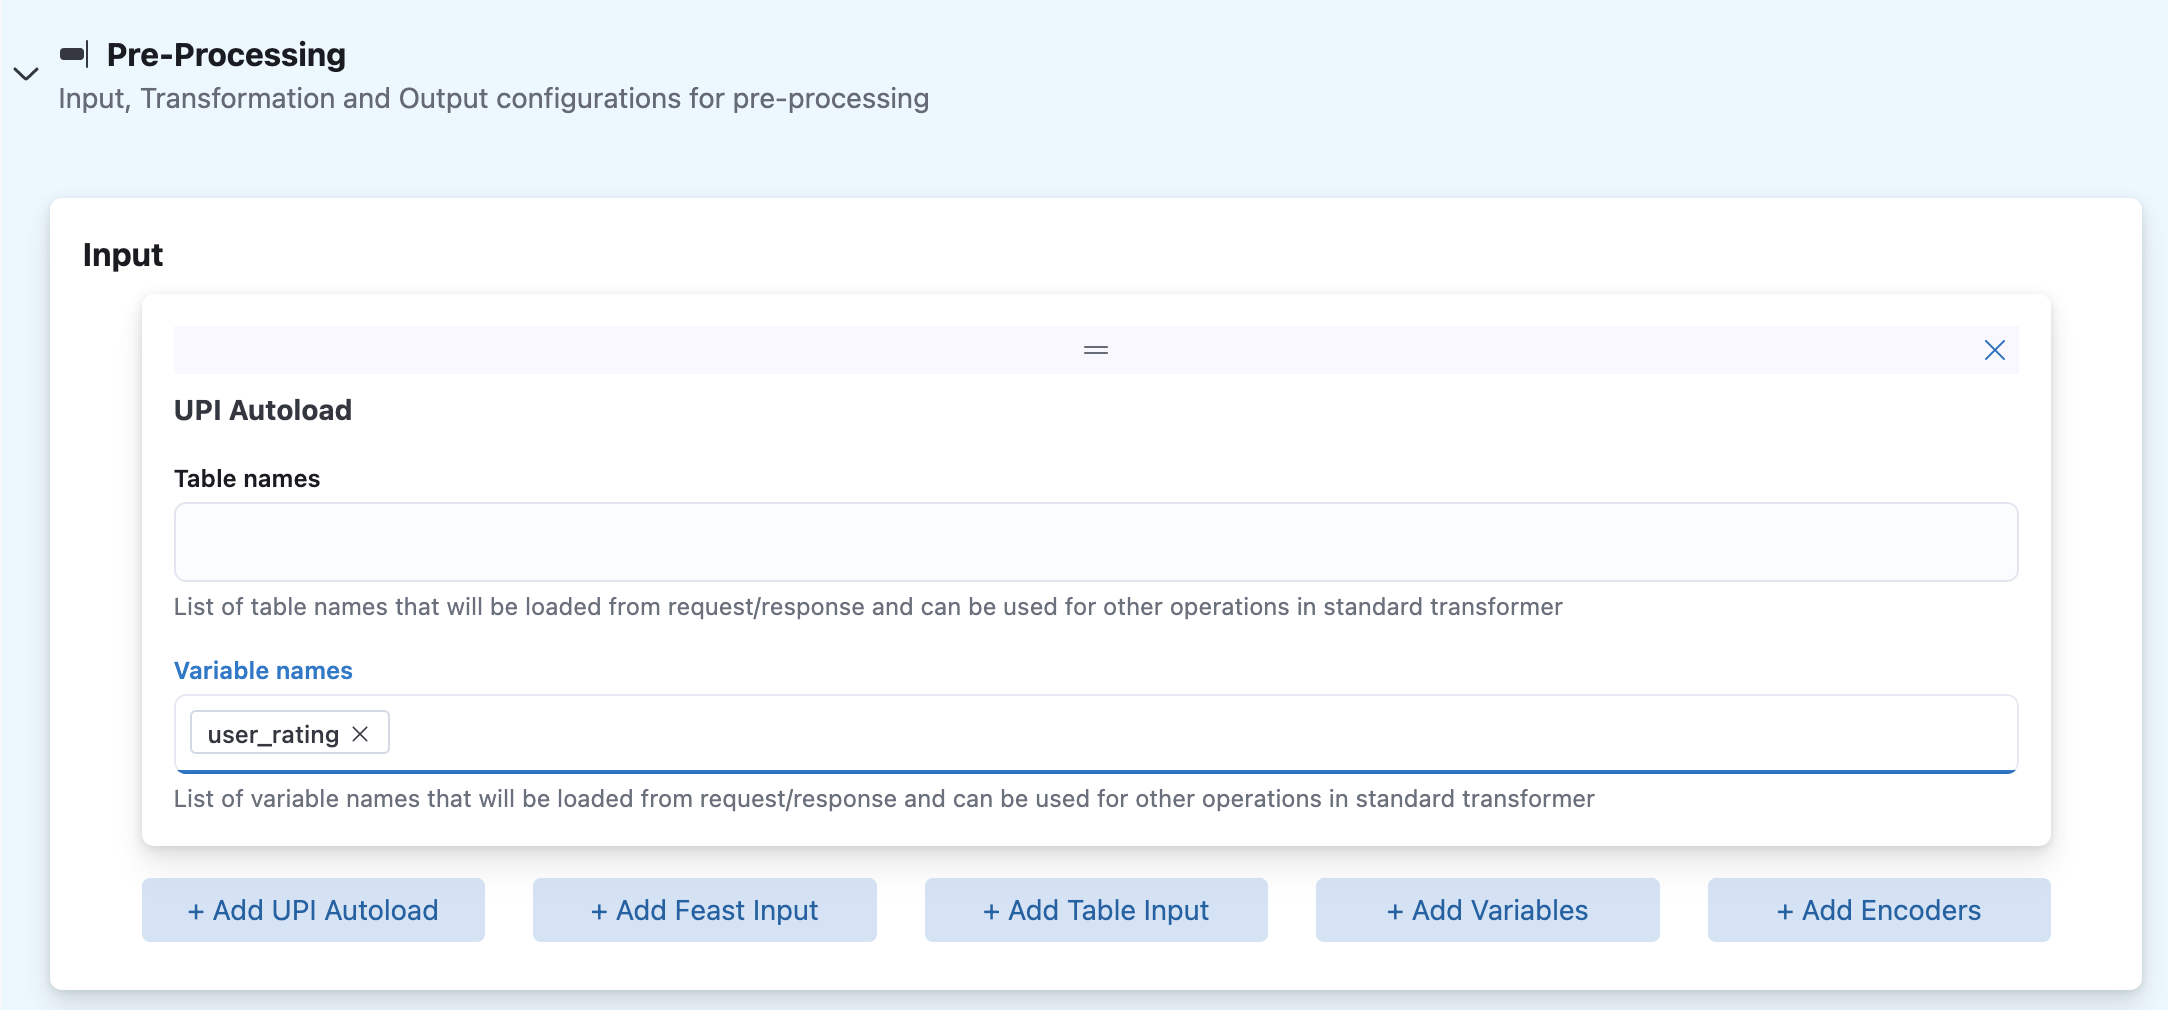
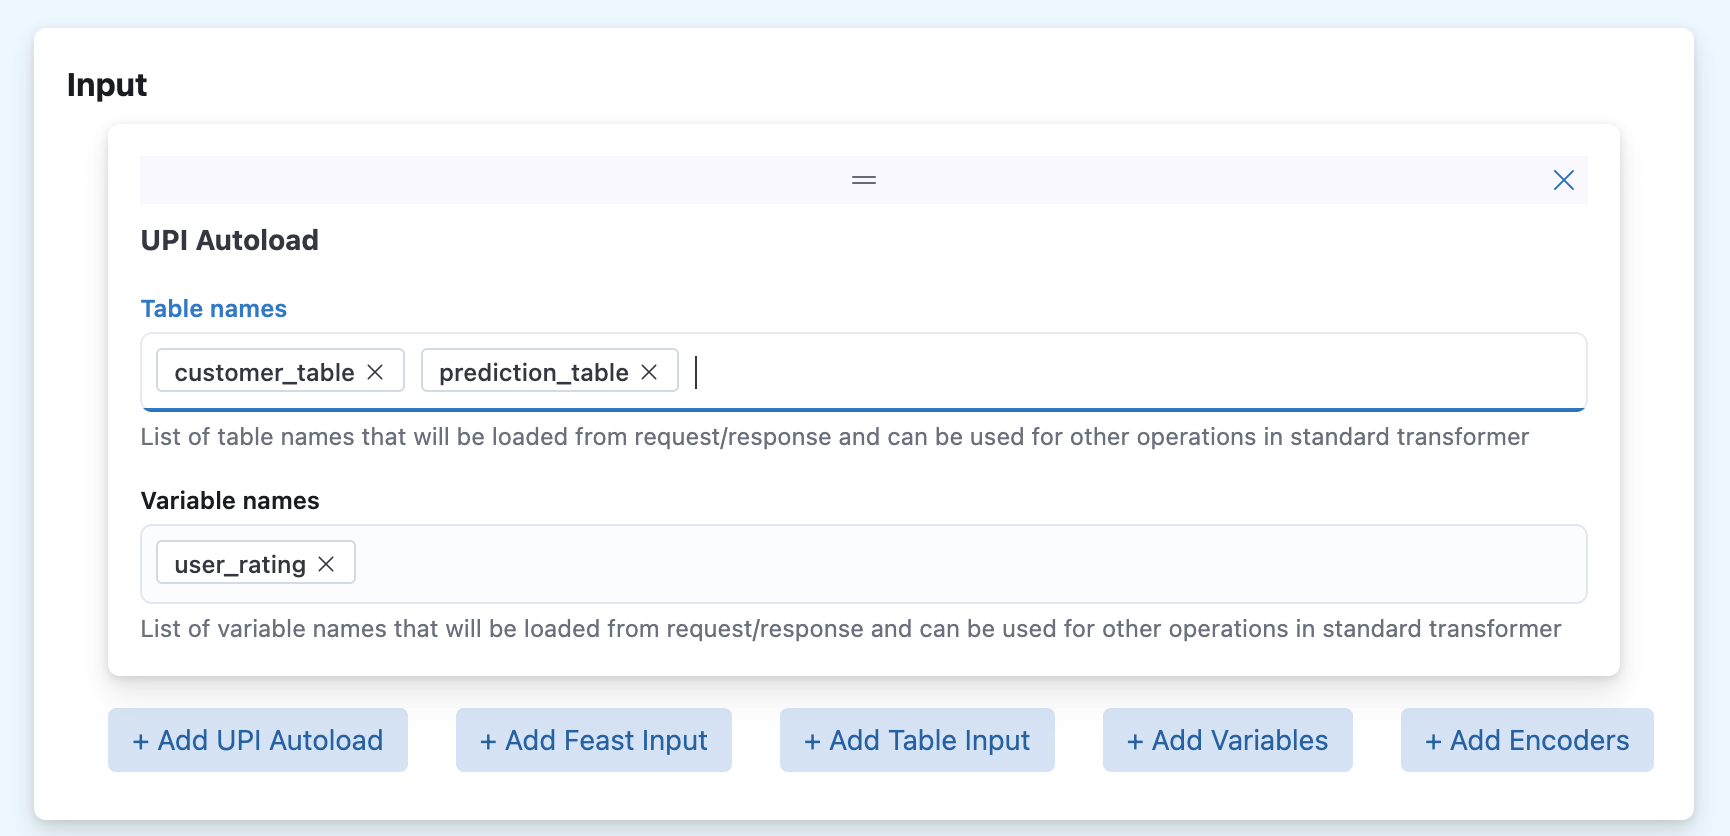
Address review feedback

diff --git a/docs/user-guide/standard_transformer_upi.md b/docs/user-guide/standard_transformer_upi.md
@@ -11,7 +11,18 @@ There are 2 key differences in Standard Transformer when it’s deployed using U
 
 Autoload feature is the primary mechanism for importing values in the request payload as variables or tables into standard transformer. Previously, it is done by using JSONPath query in the HTTP mode.
 
-For example in HTTP model, if you want to declare a rating variable that should use value from user_rating field of the incoming request, then you have to declare following configuration in the input.
+For example in HTTP model, if you want to declare a rating variable that should use value from `user_rating` field of the below incoming request
+
+```json
+{ 
+  "user_id": 12345,
+  "user_rating": 4.9,
+  "user_name": "jon_doe"
+}
+```
+
+then you have to declare following configuration in the input configuration of the standard transformer which will extract the data from incoming request. 
+The drawback of this approach is that it could be  for a more complex request payload and number of variable
 
 ```yaml
   - variables:
@@ -19,26 +30,29 @@ For example in HTTP model, if you want to declare a rating variable that should 
         jsonPathConfig: 
           jsonPath: $.user_rating
           defaultValue: -1
-          valueType: INT
+          valueType: FLOAT
 ```
 
 You can avoid it altogether by using autoload feature in UPI. To do so:
 
 - Store the variable in `transformer_input` field of the `PredictValuesRequest` 
 
-For example, when using Python SDK, you can do so by following code.
+For example, when using Python SDK, you can do so by following code. 
+In below example, we are storing `user_rating` as variable and `customer_df` as `customer_table` in `transformer_input`, as well as sending the `prediction_df` as `prediction_table`.
 
 ```python
 from caraml.upi.v1 import type_pb2, upi_pb2_grpc, upi_pb2, variable_pb2
 
 request = upi_pb2.`PredictValuesRequest`(
     ...
+    prediction_table=df_to_table(predict_df, "prediction_table")),
     transformer_input=upi_pb2.TransformerInput(
         variables=[
             variable_pb2.Variable(name="user_rating", 
                 type=type_pb2.TYPE_DOUBLE, 
                 double_value=5.0),
-        ]
+        ],
+        tables=[df_to_table(customer_df, "customer_table")]
     )
     ...
 )
@@ -46,20 +60,27 @@ request = upi_pb2.`PredictValuesRequest`(
 
 - Add autoload feature in the standard transformer config.
 
+Add all variables and tables that are going to be imported in the standard transformer.
+In below example we are importing `prediction_table`, `customer_table` , and `user_rating` that was sent by the client.
+
 ![UPI Autoload](../images/upi_autoloading_config.png)
 
 Which will add following config
 
+```yaml
+transformerConfig:
+  preprocess:
+    inputs:
+      - autoload:
+          tableNames:
+            - customer_table
+          variableNames:
+            - user_rating
+  postprocess: {}
 ```
-autoload:
-  variableNames:
-    - user_rating
-```
 
-Other than importing variables from `PredictValuesRequest`. The same mechanism can be used to import table in the request. The table created using UPI autoload will have additional column `row_id` which will store the row_ids value of the table associated table.
-
-
-The imported tables and variables from UPI Autoload can then be used for downstream transformation in the standard transformer’s preprocess and post-process. 
+Note that, the table created using UPI autoload will have additional column `row_id` which will store the `row_ids` value of the associated table.
+The imported tables and variables from UPI Autoload can then be used for downstream transformation in the standard transformer’s preprocess and post-process.
 
 ## Preprocess & Postprocess Output
 
